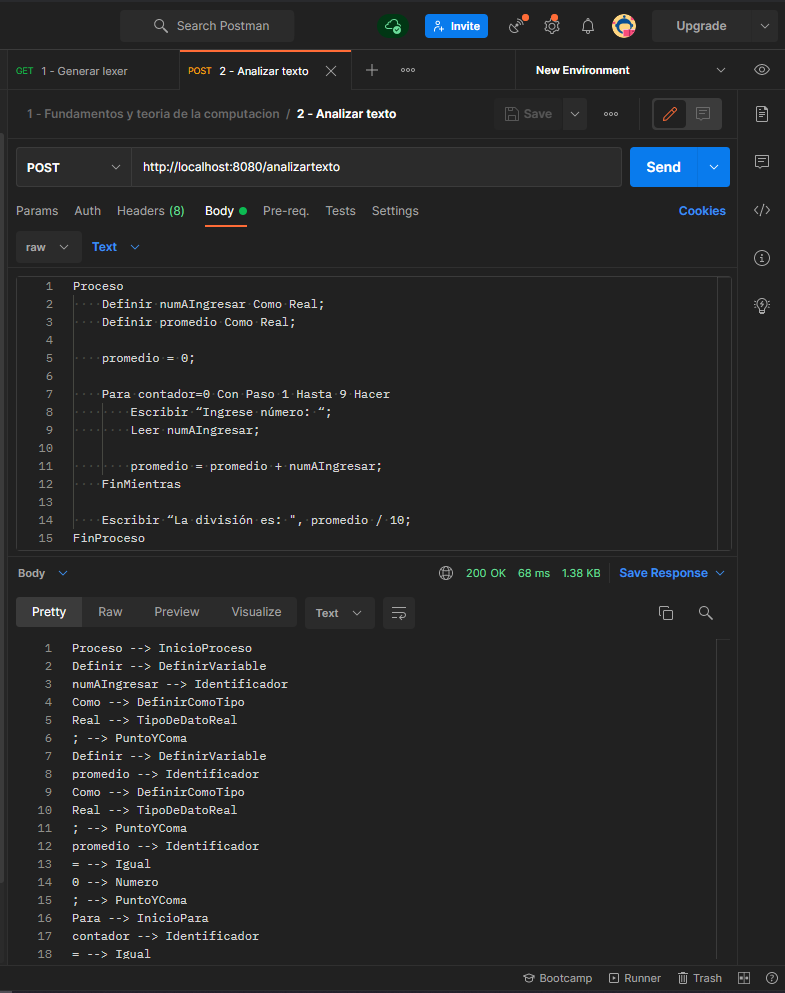
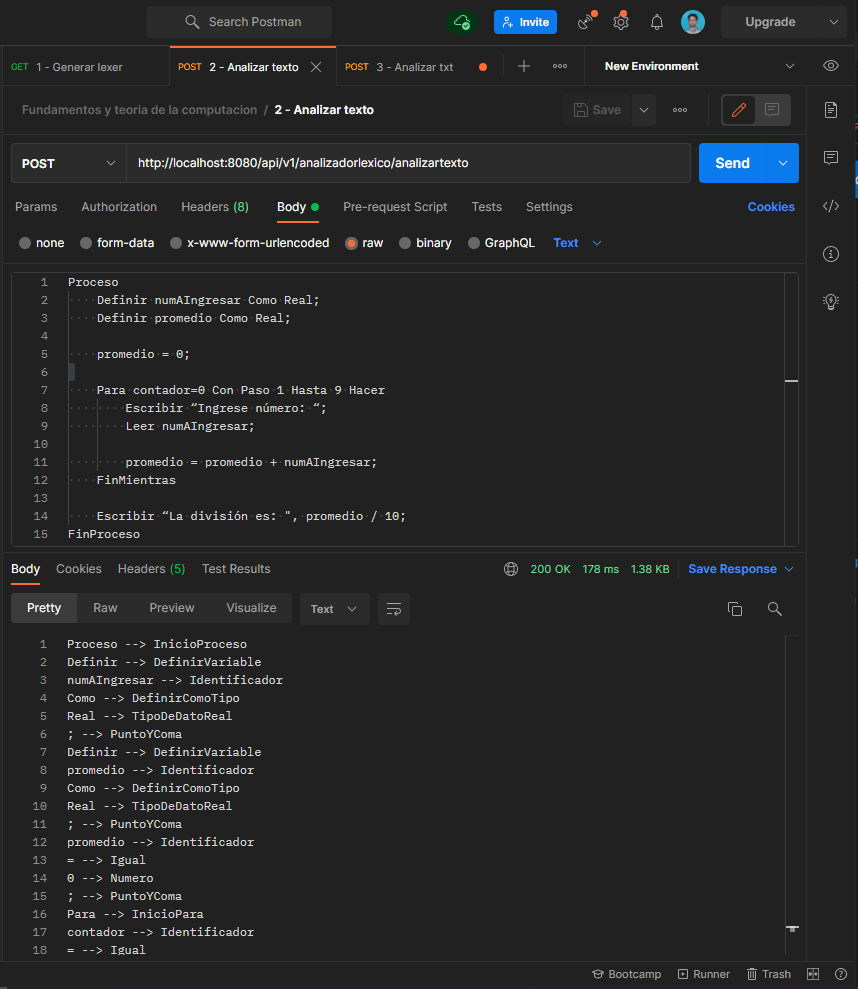
Se agrego el 3er endpoint a la documentacion y se cambiaron las imagenes de ejemplo de Postman.

diff --git a/src/main/java/com/fytc/AnalizadorLexico/controller/AnalizadorLexicoController.java b/src/main/java/com/fytc/AnalizadorLexico/controller/AnalizadorLexicoController.java
@@ -2,26 +2,29 @@ package com.fytc.AnalizadorLexico.controller;
 
 import com.fytc.AnalizadorLexico.utils.AnalizadorLexicoService;
 import org.springframework.beans.factory.annotation.Autowired;
-import org.springframework.http.MediaType;
-import org.springframework.http.ResponseEntity;
 import org.springframework.web.bind.annotation.*;
 import org.springframework.web.multipart.MultipartFile;
 
-import java.io.File;
-import java.io.FileOutputStream;
 import java.io.IOException;
-import java.util.List;
 
 
 @RestController
+@RequestMapping("/api/v1/analizadorlexico")
 public class AnalizadorLexicoController {
 
+    /**
+     * Inyeccion de dependencias del Service AnalizadorLexicoService.
+     */
     @Autowired
     AnalizadorLexicoService analizadorLexicoService;
 
+
+    /**
+     * Pasa la ruta de la ubicacion del Lexer.flex al metodo generarLexer de la capa de negocio.
+     * @return String - Lexer generado correctamente.
+     */
     @GetMapping("/generarlexer")
     public String generarlexer(){
-
         String rutaLexer = "src/main/java/com/fytc/AnalizadorLexico/utils/Lexer.flex";
         analizadorLexicoService.generarLexer(rutaLexer);
 
@@ -29,21 +32,26 @@ public class AnalizadorLexicoController {
     }
 
 
-
+    /**
+     * Toma el String que hayamos pasado en el cuerpo de la Request y lo pasa al metodo analizarTexto de la capa de negocio.
+     * @param texto
+     * @return String -> Analisis en detalle del String .
+     * @throws IOException
+     */
     @PostMapping("/analizartexto")
-    public String escribir (@RequestBody String texto) throws IOException {
+    public String leerString (@RequestBody String texto) throws IOException {
         return analizadorLexicoService.analizarTexto(texto);
     }
 
 
+    /**
+     * Toma el archivo .txt que hayamos subido al cuerpo de la Request y lo pasa al metodo analizarTxt de la capa de negocio.
+     * @param file
+     * @return String -> Analisis en detalle del archivo.txt .
+     * @throws IOException
+     */
     @PostMapping("/analizartxt")
-    public String abrirtxt(@RequestParam("file") MultipartFile file) throws IOException {
-
-        File convFile = new File(file.getOriginalFilename());
-        FileOutputStream fos = new FileOutputStream(convFile);
-        fos.write(file.getBytes());
-        fos.close();
-
-        return analizadorLexicoService.analizarTxt(convFile);
+    public String abrirTxt(@RequestBody MultipartFile file) throws IOException {
+        return analizadorLexicoService.analizarTxt(file);
     }
 }

diff --git a/src/main/java/com/fytc/AnalizadorLexico/utils/AnalizadorLexicoService.java b/src/main/java/com/fytc/AnalizadorLexico/utils/AnalizadorLexicoService.java
@@ -10,10 +10,10 @@ public class AnalizadorLexicoService {
 
 
     public void generarLexer(String rutaLexer){
-
         File archivo = new File(rutaLexer);
         JFlex.Main.generate(archivo);
     }
+
 
 
     public String analizarTexto(String texto) throws IOException {
@@ -57,9 +57,14 @@ public class AnalizadorLexicoService {
     }
 
 
-    public String analizarTxt(File file) throws IOException {
+    public String analizarTxt(MultipartFile file) throws IOException {
 
-        Reader lector = new BufferedReader(new FileReader(file.getName()));
+        File convFile = new File(file.getOriginalFilename());
+        FileOutputStream fos = new FileOutputStream(convFile);
+        fos.write(file.getBytes());
+        fos.close();
+
+        Reader lector = new BufferedReader(new FileReader(convFile.getName()));
         Lexer lexer = new Lexer(lector);
 
         String resultado = "";

diff --git a/src/main/java/com/fytc/AnalizadorLexico/utils/Lexer.java b/src/main/java/com/fytc/AnalizadorLexico/utils/Lexer.java
@@ -1,4 +1,4 @@
-/* The following code was generated by JFlex 1.4.3 on 5/11/21 14:31 */
+/* The following code was generated by JFlex 1.4.3 on 9/11/21 16:03 */
 
 package com.fytc.AnalizadorLexico.utils;
 import static com.fytc.AnalizadorLexico.utils.Tokens.*;
@@ -6,7 +6,7 @@ import static com.fytc.AnalizadorLexico.utils.Tokens.*;
 /**
  * This class is a scanner generated by 
  * <a href="http://www.jflex.de/">JFlex</a> 1.4.3
- * on 5/11/21 14:31 from the specification file
+ * on 9/11/21 16:03 from the specification file
  * <tt>src/main/java/com/fytc/AnalizadorLexico/utils/Lexer.flex</tt>
  */
 class Lexer {

diff --git a/README.md b/README.md
@@ -45,7 +45,7 @@ Una vez levantado el contexto de Spring y nuestro servidor vamos a necesitar gen
 ***Al controlador se le va a pasar la ruta del Lexer.flex y siguiendo un poco la lógica del Patrón MVC le va a pasar la responsabilidad al Servicio generarLexer que lo que va a hacer es tomar esa ruta y crear una clase nueva llamada Lexer generada a través del método generate que nos proporciona la librería JFlex.***
 
 ### Endpoint
-    GET http://localhost:8080/generarlexer
+    GET http://localhost:8080/api/v1/analizadorlexico/generarlexer
 
 
 ### Request
@@ -73,7 +73,7 @@ Una vez levantado el contexto de Spring y nuestro servidor vamos a necesitar gen
 * 7: Una vez que se haya terminado de analizar el archivo.txt y se hayan sumado todos los Tokens y Errores se devuelve una Request con los resultados del análisis.
 
 ### Endpoint
-    POST http://localhost:8080/analizartexto
+    POST http://localhost:8080/api/v1/analizadorlexico/analizartexto
 
 ### Ejemplo Payload
 
@@ -157,9 +157,146 @@ Una vez levantado el contexto de Spring y nuestro servidor vamos a necesitar gen
 * Ejemplo de cómo debería quedar el 2do endpoint en Postman.
 
 ![Alt text](docs/images/analizarTexto.png)
+
+
+-----------------------------------------------------------
+
+
+# 3 - Analizar archivos .txt
+
+***Para este tercer endpoint podemos analizar archivos .txt locales y analizar los algoritmos PSEINT que contenga el archivo.
+Para eso debemos importar un archivo .txt al cuerpo  del endpoint con la Key file para que nuestro controller pueda tomar cualquier archivo .txt para ser analizado correctamente.***
+
+
+* 1: Toma el archivo .txt .
+* 2: Se lo pasa el service .
+* 3: Creamos un Reader para poder leer esté archivo.txt .
+* 4: Le pasamos esté Reader a una instancia de la clase Lexer.
+* 5: Atrapamos todos los Tokens que hayamos leído en nuestra instancia del Lexer.
+* 6: Sumamos todos los resultados a una cadena.
+* 7: Una vez que se haya terminado de analizar el archivo.txt y se hayan sumado todos los Tokens y Errores se devuelve una Request con los resultados del análisis.
+
+### Endpoint
+    POST http://localhost:8080/api/v1/analizadorlexico/analizartxt
+
+### Ejemplo de archivo .txt
+
+    SubProceso prom <- Promedio ( arreglo, cantidad )
+        suma <- 0
+        Para i<-1 Hasta cantidad Hacer
+        suma <- suma + arreglo[i]
+        FinPara
+        prom <- suma/cantidad
+    FinSubProceso
+
+    Proceso
+        Dimension datos[100]
+        Escribir "Ingrese la cantidad de datos:"
+        Leer n
+    
+        Para i<-1 Hasta n Hacer
+            Escribir "Ingrese el dato ",i,":"
+            Leer datos[i]
+        FinPara
+    
+        Escribir "El promedio es: ",Promedio(datos,n)
+    FinProceso
+
+### Request
+    SubProceso --> InicioSubProceso
+    prom --> Identificador
+    <- --> Asignacion
+    Promedio --> Identificador
+    ( --> AbreParentesis
+    arreglo --> Identificador
+    cantidad --> Identificador
+    ) --> CierreParentesis
+    suma --> Identificador
+    <- --> Asignacion
+    0 --> Numero
+    Para --> InicioPara
+    i --> Identificador
+    <- --> Asignacion
+    1 --> Numero
+    Hasta --> Identificador
+    cantidad --> Identificador
+    Hacer --> HacerIntrucciones
+    suma --> Identificador
+    <- --> Asignacion
+    suma --> Identificador
+    + --> Suma
+    arreglo --> Identificador
+    [ ERROR: Simbolo no definido.
+    i --> Identificador
+    ] ERROR: Simbolo no definido.
+    FinPara --> FinPara
+    prom --> Identificador
+    <- --> Asignacion
+    suma --> Identificador
+    / --> Division
+    cantidad --> Identificador
+    FinSubProceso --> FinSubProceso
+    Proceso --> InicioProceso
+    Dimension --> DefinirDimension
+    datos --> Identificador
+    [ ERROR: Simbolo no definido.
+    100 --> Numero
+    ] ERROR: Simbolo no definido.
+    Escribir --> SalidaEscritura
+    " --> Comilla
+    Ingrese --> Identificador
+    la --> Identificador
+    cantidad --> Identificador
+    de --> Identificador
+    datos --> Identificador
+    : --> DosPuntos
+    " --> Comilla
+    Leer --> EntradaLectura
+    n --> Identificador
+    Para --> InicioPara
+    i --> Identificador
+    <- --> Asignacion
+    1 --> Numero
+    Hasta --> Identificador
+    n --> Identificador
+    Hacer --> HacerIntrucciones
+    Escribir --> SalidaEscritura
+    " --> Comilla
+    Ingrese --> Identificador
+    el --> Identificador
+    dato --> Identificador
+    " --> Comilla
+    i --> Identificador
+    " --> Comilla
+    : --> DosPuntos
+    " --> Comilla
+    Leer --> EntradaLectura
+    datos --> Identificador
+    [ ERROR: Simbolo no definido.
+    i --> Identificador
+    ] ERROR: Simbolo no definido.
+    FinPara --> FinPara
+    Escribir --> SalidaEscritura
+    " --> Comilla
+    El --> Identificador
+    promedio --> Identificador
+    es --> Identificador
+    : --> DosPuntos
+    " --> Comilla
+    Promedio --> Identificador
+    ( --> AbreParentesis
+    datos --> Identificador
+    n --> Identificador
+    ) --> CierreParentesis
+    FinProceso --> FinProceso
+    FIN
+
+
+* Ejemplo de cómo debería quedar el 3er endpoint en Postman.
+
+![Alt text](docs/images/analizarTxt.png)
 ----------------
-
-
+----------------
 # Author
 * Lopez, Pablo Martin
 
